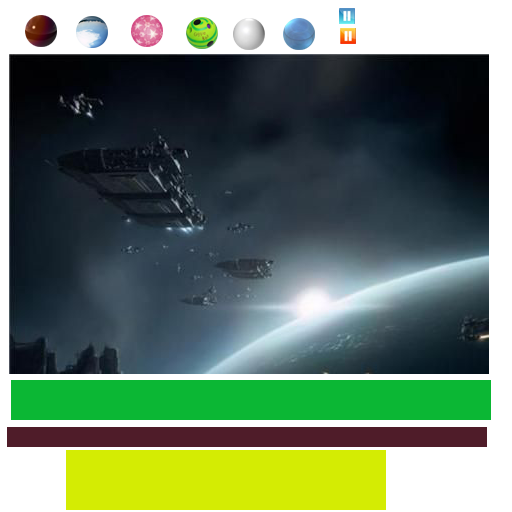
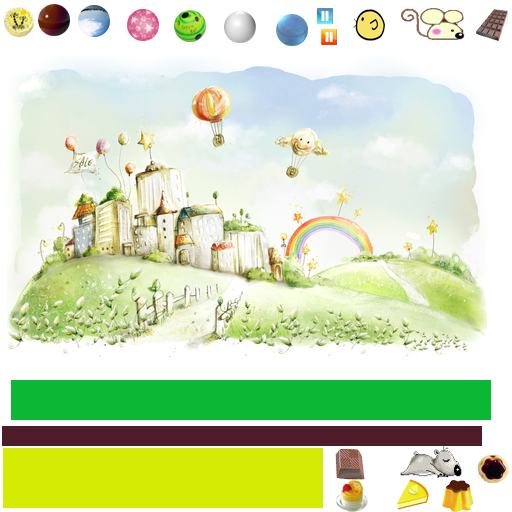
update material

diff --git a/GreedFamily/GreedFamily/objects/CandyEntity.mm b/GreedFamily/GreedFamily/objects/CandyEntity.mm
@@ -120,7 +120,7 @@
     candyParamDef.startPos = param.startPos;
     candyParamDef.isDynamicBody = param.isDynamicBody;
     candyParamDef.ballType = param.ballType;
-    candyParamDef.spriteFrameName = @"pic_4.png";
+    candyParamDef.spriteFrameName = @"puding2.png";
     candyParamDef.density = (0 == param.density) ? 0.5 : param.density;
     candyParamDef.restitution = (0 == param.restitution) ? 1.5 : param.restitution;
     candyParamDef.linearDamping = (0 == param.restitution) ? 0.2 : param.linearDamping;
@@ -137,7 +137,7 @@
     candyParamDef.startPos = param.startPos;
     candyParamDef.isDynamicBody = param.isDynamicBody;
     candyParamDef.ballType = param.ballType;
-    candyParamDef.spriteFrameName = @"pic_3.png";
+    candyParamDef.spriteFrameName = @"chocolate.png";
     candyParamDef.density = (0 == param.density) ? 0.8 : param.density;
     candyParamDef.restitution = (0 == param.restitution) ? 0.8 : param.restitution;
     candyParamDef.linearDamping = (0 == param.restitution) ? 0.5 : param.linearDamping;
@@ -154,7 +154,7 @@
     candyParamDef.startPos = param.startPos;
     candyParamDef.isDynamicBody = param.isDynamicBody;
     candyParamDef.ballType = param.ballType;
-    candyParamDef.spriteFrameName = @"pic_2.png";
+    candyParamDef.spriteFrameName = @"cake3.png";
     candyParamDef.density = (0 == param.density) ? 0.1 : param.density;
     candyParamDef.restitution = (0 == param.restitution) ? 0.5 : param.restitution;
     candyParamDef.linearDamping = (0 == param.restitution) ? 0.2 : param.linearDamping;

diff --git a/GreedFamily/GreedFamily/GameBackgroundLayer.mm b/GreedFamily/GreedFamily/GameBackgroundLayer.mm
@@ -46,7 +46,7 @@ static GameBackgroundLayer *instanceOfGameBackgroundLayer;
         
 
         // IMPORTANT: filenames are case sensitive on iOS devices!
-        CCSprite* background = [CCSprite spriteWithSpriteFrameName:@"background.png"];
+        CCSprite* background = [CCSprite spriteWithSpriteFrameName:@"bakepic.png"];
         CGSize screenSize = [[CCDirector sharedDirector] winSize];
         background.position = CGPointMake(screenSize.width / 2, screenSize.height / 2);
         [self addChild:background z:-3];

diff --git a/GreedFamily/GreedFamily/objects/FlyEntity.mm b/GreedFamily/GreedFamily/objects/FlyEntity.mm
@@ -44,7 +44,7 @@
          [self.sprite runAction:repeat];
          */
         //先暂时随便用一个图片代替
-		NSString* spriteFrameName = @"pic_6.png";
+		NSString* spriteFrameName = @"bird.png";
 		CCSprite* tempSprite = [CCSprite spriteWithSpriteFrameName:spriteFrameName];
         
         CGPoint startPos = CGPointMake(([tempSprite contentSize].width) * 0.5f, 
